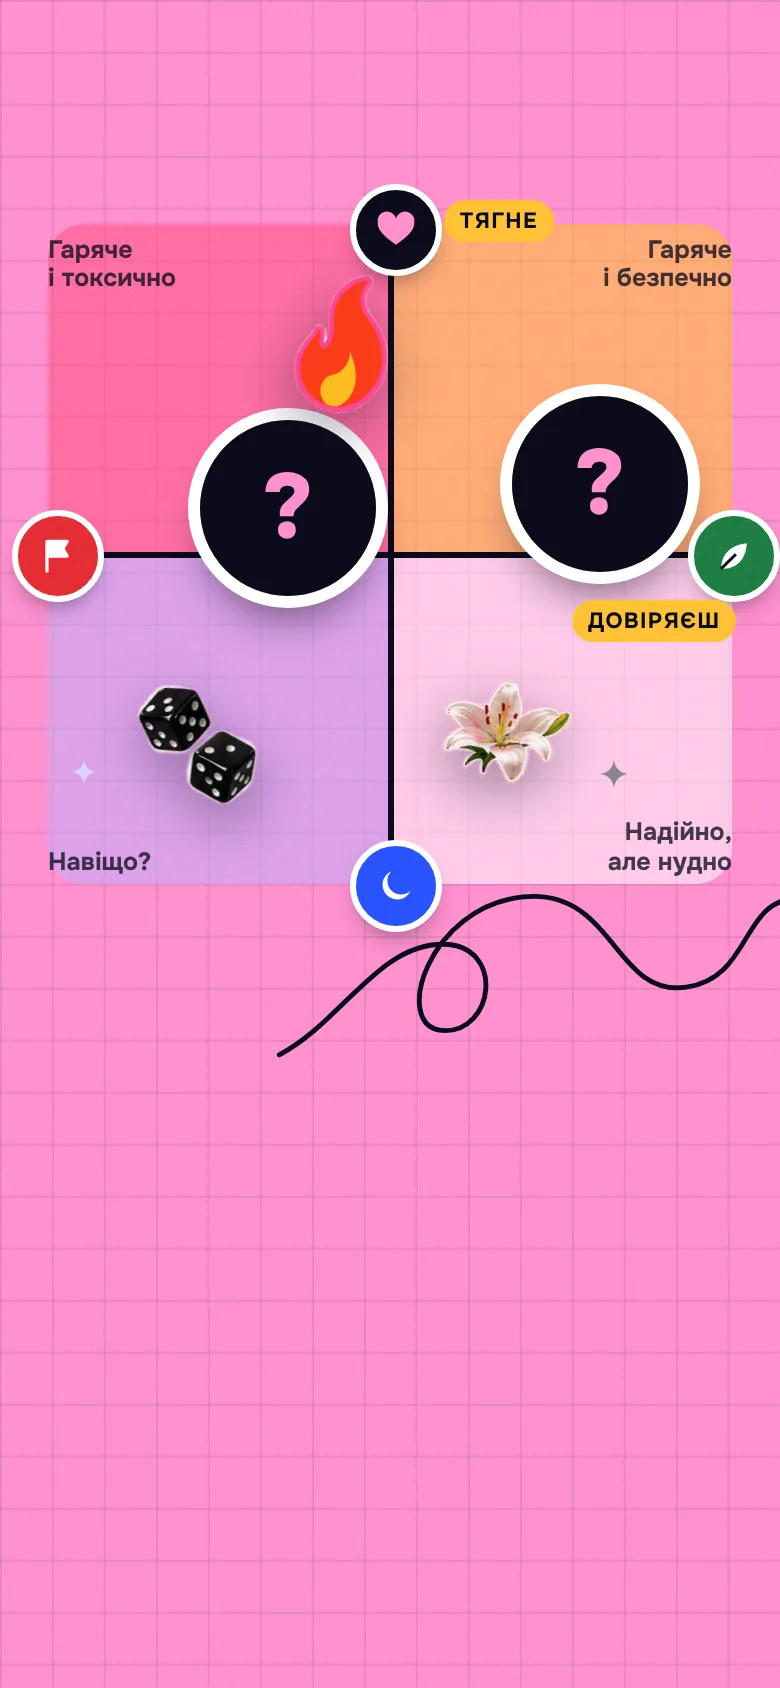
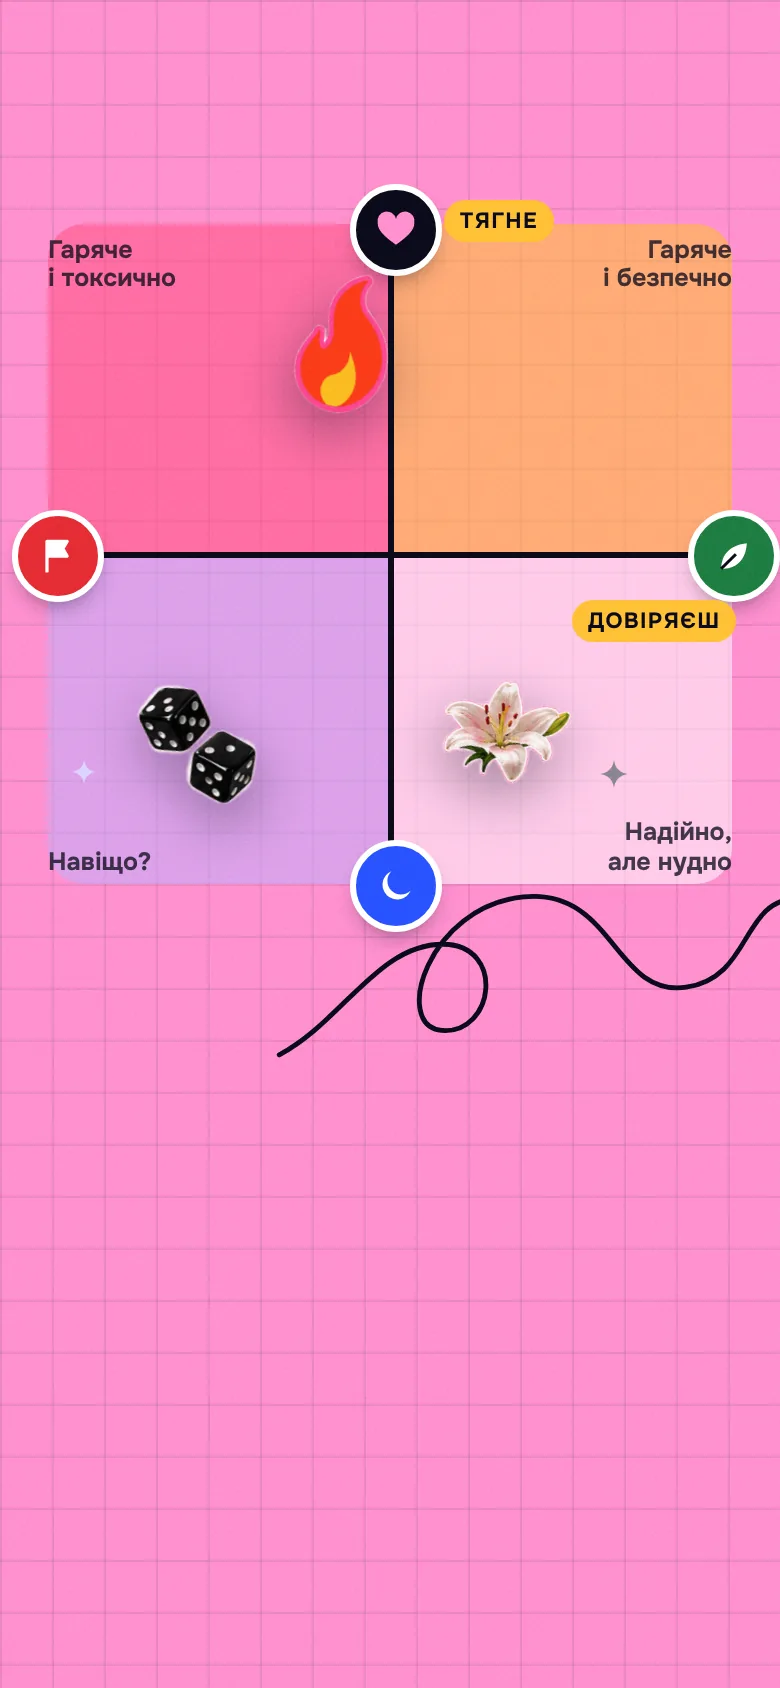
Wrapped: передзавантаження фонів, кружки матриці за квадрантами, рядки чека, кольори порівняння
Claude-Session: https://claude.ai/code/session_014gfNJfnkC9T8fbke2Fq96Y

Changed region(s): [[0.6154, 0.2156, 0.9231, 0.3697], [0.2154, 0.2156, 0.5231, 0.4005]]

diff --git a/lib/screens/wrapped.dart b/lib/screens/wrapped.dart
@@ -65,6 +65,18 @@ class _WrappedScreenState extends State<WrappedScreen> {
   int i = 0;
   bool safe = true;
   final shot = GlobalKey();
+  bool _cached = false;
+
+  @override
+  void didChangeDependencies() {
+    super.didChangeDependencies();
+    if (_cached) return;
+    _cached = true;
+    // усі 19 фонів одразу, щоб текст не з'являвся поверх старого слайда
+    for (var k = 0; k < 19; k++) {
+      precacheImage(AssetImage('assets/wrapped/s${k.toString().padLeft(2, '0')}.webp'), context);
+    }
+  }
 
   Future<void> _share(Wrapped w, WSlide s, bool square) async {
     if (s.private) {
@@ -299,9 +311,11 @@ class _Slide extends StatelessWidget {
     final big = txtDark ? 48.0 : 46.0;
     final st = ws(big, FontWeight.w800, fg, h: .93, ls: -big * .05);
     final l2 = line2 ?? s.title2;
+    final parts = l2.split('|');
     return Column(crossAxisAlignment: CrossAxisAlignment.start, children: [
       Text(s.title1, style: st),
-      if (l2.isNotEmpty) Text(l2, style: st.copyWith(color: txtDark ? _ink : _pink)),
+      if (parts.length > 1) Text(parts.first, style: st),
+      if (l2.isNotEmpty) Text(parts.last, style: st.copyWith(color: txtDark ? _ink : _pink)),
     ]);
   }
 
@@ -522,7 +536,7 @@ class _Slide extends StatelessWidget {
             ]),
         ]);
       case WK.matrix:
-        const centers = [Offset(282, 200), Offset(110, 200), Offset(282, 355), Offset(110, 355)];
+        const centers = [Offset(300, 242), Offset(144, 254), Offset(290, 330), Offset(130, 335)];
         for (var k = 0; k < s.who.length; k++) {
           var c = centers[s.ints[k]];
           if (k == 1 && s.ints[0] == s.ints[1]) c = c.translate(0, 70);
@@ -737,7 +751,7 @@ class _Slide extends StatelessWidget {
       case WK.glow:
         ov.add(_Calendar(month: s.a, best: s.ints.first, firstWeekday: s.ints.length > 1 ? s.ints[1] : 1));
         for (var k = 0; k < s.rows.length && k < 3; k++) {
-          ov.add(Positioned(left: 24.0 + k * 118, top: 222, width: 106, height: 150, child: _Bars(r: s.rows[k], prev: s.b, cur: s.c)));
+          ov.add(Positioned(left: 24.0 + k * 118, top: 222, width: 106, height: 150, child: _Bars(r: s.rows[k], prev: s.b, cur: s.c, color: k == 1 ? _yel : _pink)));
         }
         body.addAll([_title(), _cap(s.capSafe)]);
       case WK.closed:
@@ -777,7 +791,7 @@ class _Slide extends StatelessWidget {
     }
 
     return Stack(clipBehavior: Clip.hardEdge, children: [
-      Positioned.fill(child: Image.asset(img, fit: BoxFit.fill, gaplessPlayback: true)),
+      Positioned.fill(child: Image.asset(img, fit: BoxFit.fill, frameBuilder: (_, child, frame, sync) => frame == null && !sync ? ColoredBox(color: _bgOf[_th[s.k.index].substring(1)] ?? _ink) : child)),
       ...ov,
       // шапка
       Positioned(
@@ -956,14 +970,15 @@ class _Calendar extends StatelessWidget {
 class _Bars extends StatelessWidget {
   final WRow r;
   final String prev, cur;
-  const _Bars({required this.r, required this.prev, required this.cur});
+  final Color color;
+  const _Bars({required this.r, required this.prev, required this.cur, required this.color});
   @override
   Widget build(BuildContext context) {
     double num(String x) => double.tryParse(x.replaceAll(',', '.')) ?? 0;
     final a = num(r.sub ?? '0'), b = num(r.value);
     final mx = math.max(math.max(a, b), .1);
     double h(double v) => 10 + 52 * (v / mx);
-    final good = r.kind != 1 ? (r.label == 'Ред-флаги' ? _yel : _yel) : _pink;
+    final good = color;
     final up = b >= a;
     Widget bar(double v, String t, Color c) => Column(mainAxisAlignment: MainAxisAlignment.end, children: [
           Text(t, style: ws(12, FontWeight.w800, Colors.white)),

diff --git a/lib/logic/wrapped.dart b/lib/logic/wrapped.dart
@@ -156,7 +156,7 @@ Wrapped buildWrapped(String month, DB db) {
   int tagN(String t) => es.where((e) => e.tags.contains(t)).length;
 
   // 0. Обкладинка
-  out.add(WSlide(WK.cover, '$nom:', 'звіт про виживання',
+  out.add(WSlide(WK.cover, '$nom:', 'звіт про|виживання',
       capSafe: '$n ${plural(n, 'побачення', 'побачення', 'побачень')}, ${ids.length} ${plural(ids.length, menWord.$1, menWord.$2, menWord.$3)}'
           '${awards.isEmpty ? '.' : awards.length == 1 ? ' і одна нагорода, якою не похвалишся.' : ' і ${awards.length} ${plural(awards.length, 'нагорода', 'нагороди', 'нагород')}.'}'));
 
@@ -170,9 +170,11 @@ Wrapped buildWrapped(String month, DB db) {
       rows: [
         WRow('Побачення', '$n шт'),
         WRow(cap(menWord.$3 == 'людей' ? 'Люди' : (menWord.$3 == 'жінок' ? 'Жінки' : 'Чоловіки')), '${ids.length} шт'),
-        if (sx.isNotEmpty) WRow('Секс', '${sxAvg.round()}/5'),
-        if (tagN('alco1') > 0) WRow('«Келих-два»', '${tagN('alco1')} шт'),
-        if (tagN('alco2') > 0) WRow('«Більше»', '${tagN('alco2')} шт'),
+        ...[
+          if (sx.isNotEmpty) WRow('Секс', '${sxAvg.round()}/5'),
+          if (tagN('alco1') > 0) WRow('«Келих-два»', '${tagN('alco1')} шт'),
+          if (tagN('alco2') > 0) WRow('«Більше»', '${tagN('alco2')} шт'),
+        ].take(2),
         WRow('Ред-флаги', '${reds.length} шт', kind: 1),
         WRow('Грін-флаги', '${greens.length} шт', kind: 2),
       ]));
